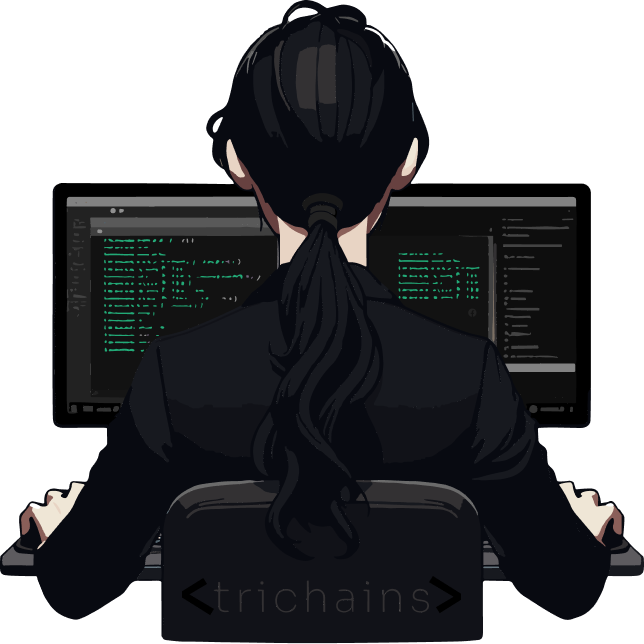
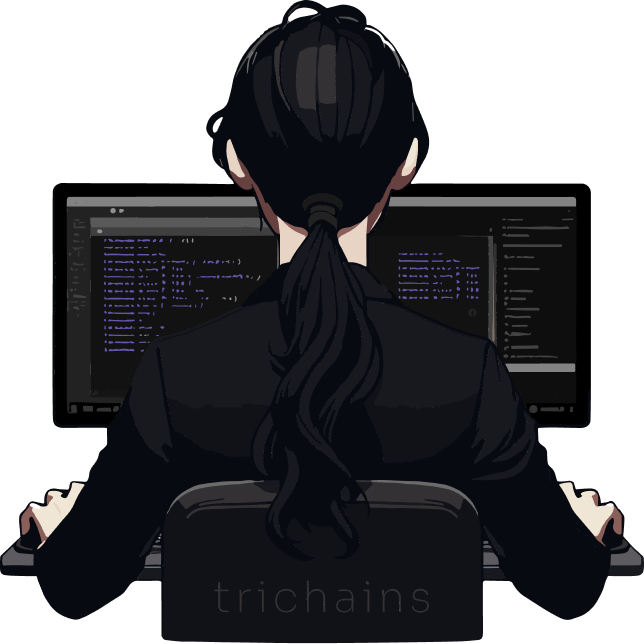
att: destaque

Changed region(s): [[0.1553, 0.3727, 0.3416, 0.559], [0.6211, 0.4037, 0.7453, 0.4658]]

diff --git a/styles/globals.css b/styles/globals.css
@@ -8,14 +8,14 @@
 .swiper-horizontal > .swiper-pagination-bullets .swiper-pagination-bullet,
 .swiper-pagination-horizontal.swiper-pagination-bullets
   .swiper-pagination-bullet {
-  background-color: #2a7;
+  background-color: #65a;
 }
 
 .swiper-button-next:after,
 .swiper-button-prev:after,
 .swiper-button-next:after,
 .swiper-rtl .swiper-button-prev:after {
-  color: #2a7;
+  color: #65a;
 }
 
 @layer base {

diff --git a/pages/_app.js b/pages/_app.js
@@ -24,7 +24,7 @@ function MyApp({ Component, pageProps }) {
         />
         <meta
           property="og:image"
-          content="https://i.ibb.co/hMg9wKy/trichains.png"
+          content="https://i.ibb.co/W27vHLF/trichains.png"
         />
         <meta property="og:image:width" content="1200" />
         <meta property="og:image:height" content="630" />

diff --git a/components/ParticlesContainer.js b/components/ParticlesContainer.js
@@ -31,9 +31,9 @@ const ParticlesContainer = () => {
           }
         },
         particles: {
-          color: '#2a7',
+          color: '#65a',
           links: {
-            color: '#6b9',
+            color: '#98c',
             distance: 150,
             enable: true,
             opacity: 0.5,

diff --git a/tailwind.config.js b/tailwind.config.js
@@ -24,7 +24,7 @@ module.exports = {
       colors: {
         primary: '#131424',
         secondary: '#393A47',
-        accent: '#2a7'
+        accent: '#65a'
       },
       backgroundImage: {
         explosion: 'url("/bg-explosion.webp")',
